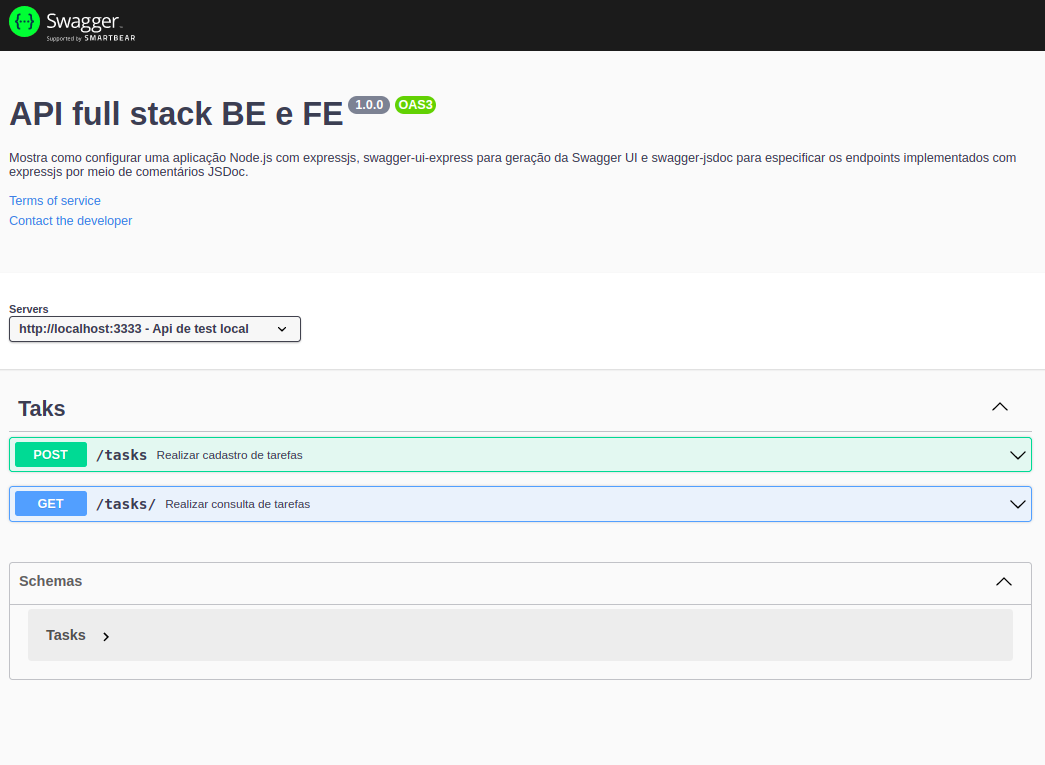
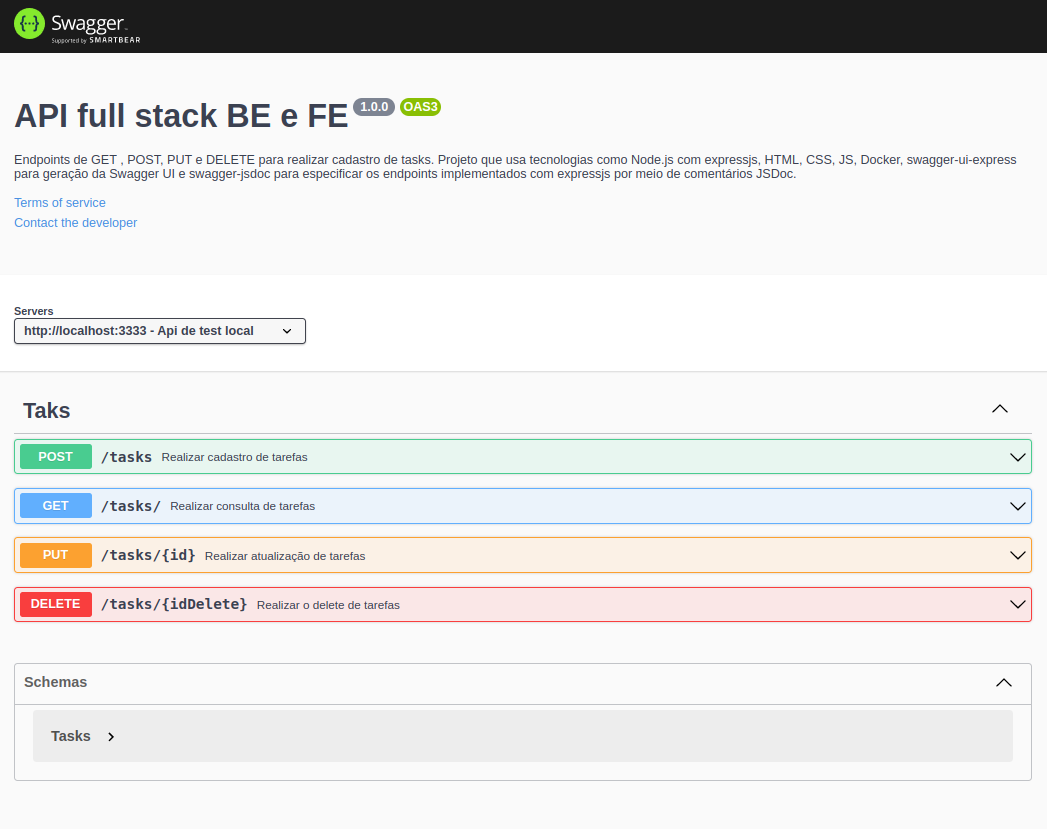
Add requests PUT DELETE swagger + Add validações 404 e 400

diff --git a/backend/src/middlewares/tasks.Middleware.js b/backend/src/middlewares/tasks.Middleware.js
@@ -45,7 +45,6 @@ const connection = mysql.createPool({
 });
 
 const validatedTasksExists = async (request, response, next) => {
-    console.log("Cheguei aqui");
     const { body } = request;
 
     try {
@@ -55,7 +54,7 @@ const validatedTasksExists = async (request, response, next) => {
             [body.title]
         );
 
-        console.log(results);
+        //console.log(results);
         if (results.length > 0) {
             // Já existe uma tarefa com o mesmo título
             return response.status(400).json({
@@ -73,8 +72,51 @@ const validatedTasksExists = async (request, response, next) => {
     }
 };
 
+const validatedTasksNotExists = async (request, response, next) => {
+    const { id } = request.params;
+    console.log(id);
+    try {
+        // Verifica se já existe uma tarefa com o mesmo título
+        const [results] = await connection.query(
+            "SELECT * FROM tasks WHERE id = ?",
+            [id]
+        );
+
+        console.log(results);
+        if (results.length === 0) {
+            // Já existe uma tarefa com o mesmo título
+            return response.status(404).json({
+                message: "Não existe uma tarefa na base com esse {id}",
+            });
+        }
+
+        // O título está disponível, prossiga com a criação da tarefa
+        next();
+    } catch (err) {
+        // Trate qualquer erro de consulta ao banco de dados
+        return response
+            .status(500)
+            .json({ message: "Erro interno do servidor" });
+    }
+};
+
+const validateFieldId = (request, response, next) => {
+    const { id } = request.params;
+
+    if (!id || id.trim() === "") {
+        return response
+            .status(400)
+            .json({ message: "Campo 'id' no path não pode ser vazio!!" });
+    }
+
+    console.log("chegou no next");
+    next(); // Se não possui nenhum problema request pode seguir para chamada roter (Controller)
+};
+
 module.exports = {
     validateFieldTitle,
     validateFieldStatus,
     validatedTasksExists,
+    validateFieldId,
+    validatedTasksNotExists,
 };

diff --git a/backend/src/routes/router.js b/backend/src/routes/router.js
@@ -15,13 +15,18 @@ router.post(
     tasksController.postCreatedTaks
 );
 
-router.delete("/tasks/:id", tasksController.deleteTaks);
+router.delete(
+    "/tasks/:id",
+    tasksMiddlewares.validatedTasksNotExists,
+    tasksController.deleteTaks
+);
 
 router.put(
     "/tasks/:id",
     tasksMiddlewares.validateFieldTitle,
     tasksMiddlewares.validateFieldStatus,
-    tasksMiddlewares.validatedTasksExists,
+    tasksMiddlewares.validatedTasksNotExists,
+    tasksMiddlewares.validateFieldId,
     tasksController.updateTaks
 );
 

diff --git a/frontend/css/style.css b/frontend/css/style.css
@@ -129,7 +129,7 @@ select:hover {
 /* Menu */
 :root {
     --icon-size: 2.5rem;
-    --indicator-spacing: calc(var(--icon-size) / 7);
+    --indicator-spacing: calc(var(--icon-size) / 8);
     --border-radius: calc(var(--icon-size) / 4);
     --nav-item-padding: calc(var(--icon-size) / 2);
     --background-color: #333;

diff --git a/README.md b/README.md
@@ -93,23 +93,25 @@ Subir a imagem do mysql manualmente (_Opcional_)
 -   Docker com a imagem do mysql
 -   Cria a tabela e realiza a carga inicial no BD
 -   Server do app
--   Server do Swagger (*Ainda em atualização*)
-    - http://127.0.0.1:3000/api-docs/
+-   Server do Swagger
+    -   http://127.0.0.1:3000/api-docs/
 
 ![swagger.png](backend//swagger.png)
 
 ---
 
-#### Subindo camada de FE usando Server local (diretório _/frontend_)
+#### **Open aplicação (diretório _/frontend_)**
 
--   Start utilizando o plugin Live Server do vscode ou abrindo o index.html local
+-   Start utilizando o plugin Live Server do vscode
     > http://127.0.0.1:5500/frontend/index.html
+-   Ou abrindo o arquivo
+    > /api-full-stack-be-fe/frontend/index.html
 
 ---
 
-#### Importar requests no postman para utilização das chamadas de BE.
+Importar requests no postman para utilização das chamadas de BE.
 
--   Arquivo na raiz do projeto **postman_collection.json**
+-   Arquivo na raiz do projeto **backend/postman_collection.json**
 
 ## Links adicionais
 
